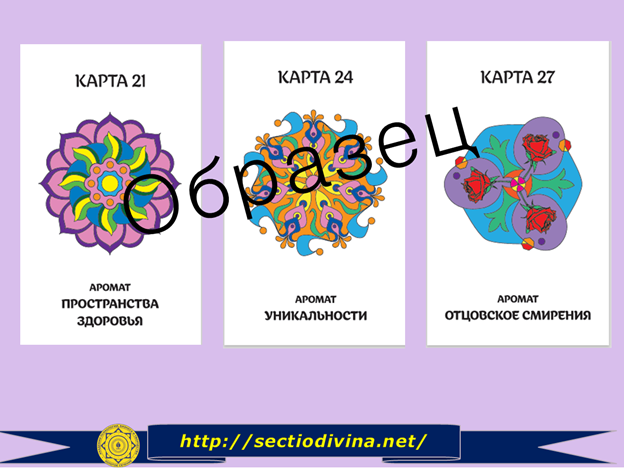
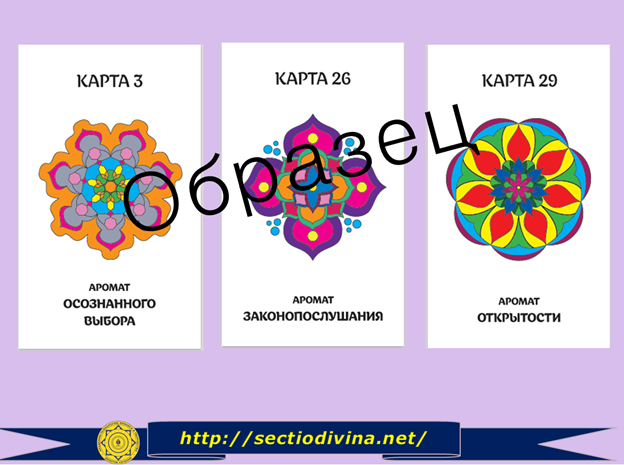
обновил код

diff --git a/index.html b/index.html
@@ -53,12 +53,17 @@
       <div class="position-card">
         <div class="info infos1" id="info1">
           <h1 class="main-text1">Карта № 1</h1>
-          <h2 class="main-text2">Аромат пространства здоровья.</h2>
+          <h2 class="main-text2"> Аромат осознанного выбора.</h2>
           <p class="cart1">
-            *Появление этой карты в раскладе говорит о том, что тема предсказания или самовнушения сейчас очень актуальна для вас. Как вы относитесь к предсказаниям? Какое значение для вас имеют чьи-то пророчества или внушения касающиеся вас лично? Например: вы в детстве часто что-либо роняли, и родители вам говорили – «Ну что же у тебя такие руки-крюки!». И теперь вы шагаете по жизни именно с этим внушением, хотя, наверняка, с руками у вас все в порядке. 
-*Просканируйте ваши собственные установки и предвзятости по отношению к себе.
-Попробуйте изменить привычную позицию. Поймите, что любая часть вашей жизни, кажущаяся вам неизменной, потому что, по-вашему, у вас нет каких-либо достоинств или талантов, может измениться в лучшую сторону, если вы, внушая себе позитивные мысли,
-настроитесь на успех. 
+            * Появление этой карты в раскладе говорит о том, что вам сейчас нужно разобраться в своих представлениях об удовольствии и наслаждении.  Осознаете ли вы разницу между удовольствием и наслаждением? Как часто вы делаете над собой усилие для того, чтобы получать наслаждение жизнью. 
+*Несколько советов, как научиться наслаждаться жизнью:
+- Сосредоточьтесь на себе и своих потребностях;
+- Тратьте деньги на опыт, а не имущество;
+-  Попробуйте что-то новое;
+- Поддерживайте позитивное отношение к жизни;
+- Делайте выбор осознанно, отслеживайте, на что вы тратите время;
+- Развивайте силу воли;
+- Находите время для занятий любимым делом.
             <div class="number-cart">
               Пишите номер карты нам в ответном письме и получите доступ к медитации на платформе геткурс.
             </div> 
@@ -72,15 +77,11 @@
   
         <div class="info infos1" id="info2">
           <h4 class="main-text3">Карта № 2</h4>
-          <h5 class="main-text4">Аромат уникальности.</h5>
+          <h5 class="main-text4">Аромат законопослушания.</h5>
           <p class="cart2">
-            * Появление этой карты в раскладе говорит о том, что пришла пора понять свою уникальность, найти свой стиль, выразить свою индивидуальность. Возможно, у вас есть проблемы с проявлением себя, как личности.
-*Что же не дает проявить свою индивидуальность:
-- Детские установки, которые не позволяют верить в себя;
-- Гордыня, страхи, которые мешают быть самим собой;
-- Зацикленность на физическом мире, материальных проблемах;
-- Нежелание развиваться, раскрывать более глубокий уровень своего «Я» - уровень души.
-*Вы должны помнить, что обладаете огромным потенциалом, даже если вам кажется, что у вас нет никаких талантов. Если вы раскроете свою уникальность, примите свои индивидуальные особенности и позволите себе быть собой, то увидите сами, на что вы способны!
+            *Появление этой карты в раскладе говорит о том, что сейчас на вашу жизненную ситуацию влияет какой-то закон, который, как вы считаете, ограничивает вашу свободу или препятствует совершению вами каких-то действий.  Вы можете отдавать себе отчет о том, какой это закон, а, может быть даже не подозреваете о существовании такого закона, воспринимая то, что происходит, как случайные события. 
+*Проанализируйте, как вы вообще относитесь к закону? Что вы думаете о соблюдении законов? Что для вас закон – свобода или ограничения?
+*Если вы отследили у себя негативное отношение к законам, вспомните, что все в жизни имеет две стороны. И только вы сами можете сделать выбор в пользу позитива, принятия и свободы.
             <div class="number-cart">
               Пишите номер карты нам в ответном письме и получите доступ к медитации на платформе геткурс.
             </div> 
@@ -95,11 +96,11 @@
             Карта № 3 
           </h6>
           <h7 class="main-text6">
-            Аромат отцовского смирения.
+            Аромат открытости.
           </h7>
           <p class="cart3">
-            * Появление этой карты в раскладе говорит о том, что сейчас пришло время разобраться с вашими привычками и установками, которые приводят к повторяющимся негативным событиям. Например, вы не можете найти общий язык с окружающими. Часто ссоритесь, обвиняя, конечно, не себя. Или на вашем пути нередко встречаются люди, которые вас предают. А, может быть, вы постоянно испытываете финансовые затруднения.  
-* Проще всего продолжать думать, что вы здесь ни при чем. Но, если сейчас вы читаете эти строки, значит вселенная предлагает вам шанс выхода из установок, привычек и шаблонов. Воспользуйтесь им.
+            * Появление этой карты в раскладе говорит о том, что сейчас вам необходимо понять, какая роль в вашей жизни мешает достижению вами каких-то желанных высот. Роль жертвы? А, может быть, вечного контролера? Человека, которому некогда заниматься собственной жизнью, потому что он слишком много времени и сил уделяет другим?
+*Проанализируйте, насколько вы верите в себя? В свои способности, навыки, потенциал? Как часто вы пасуете перед трудностями, не веря в собственные силы?
             <div class="number-cart">
               Пишите номер карты нам в ответном письме и получите доступ к медитации на платформе геткурс.
             </div> 
